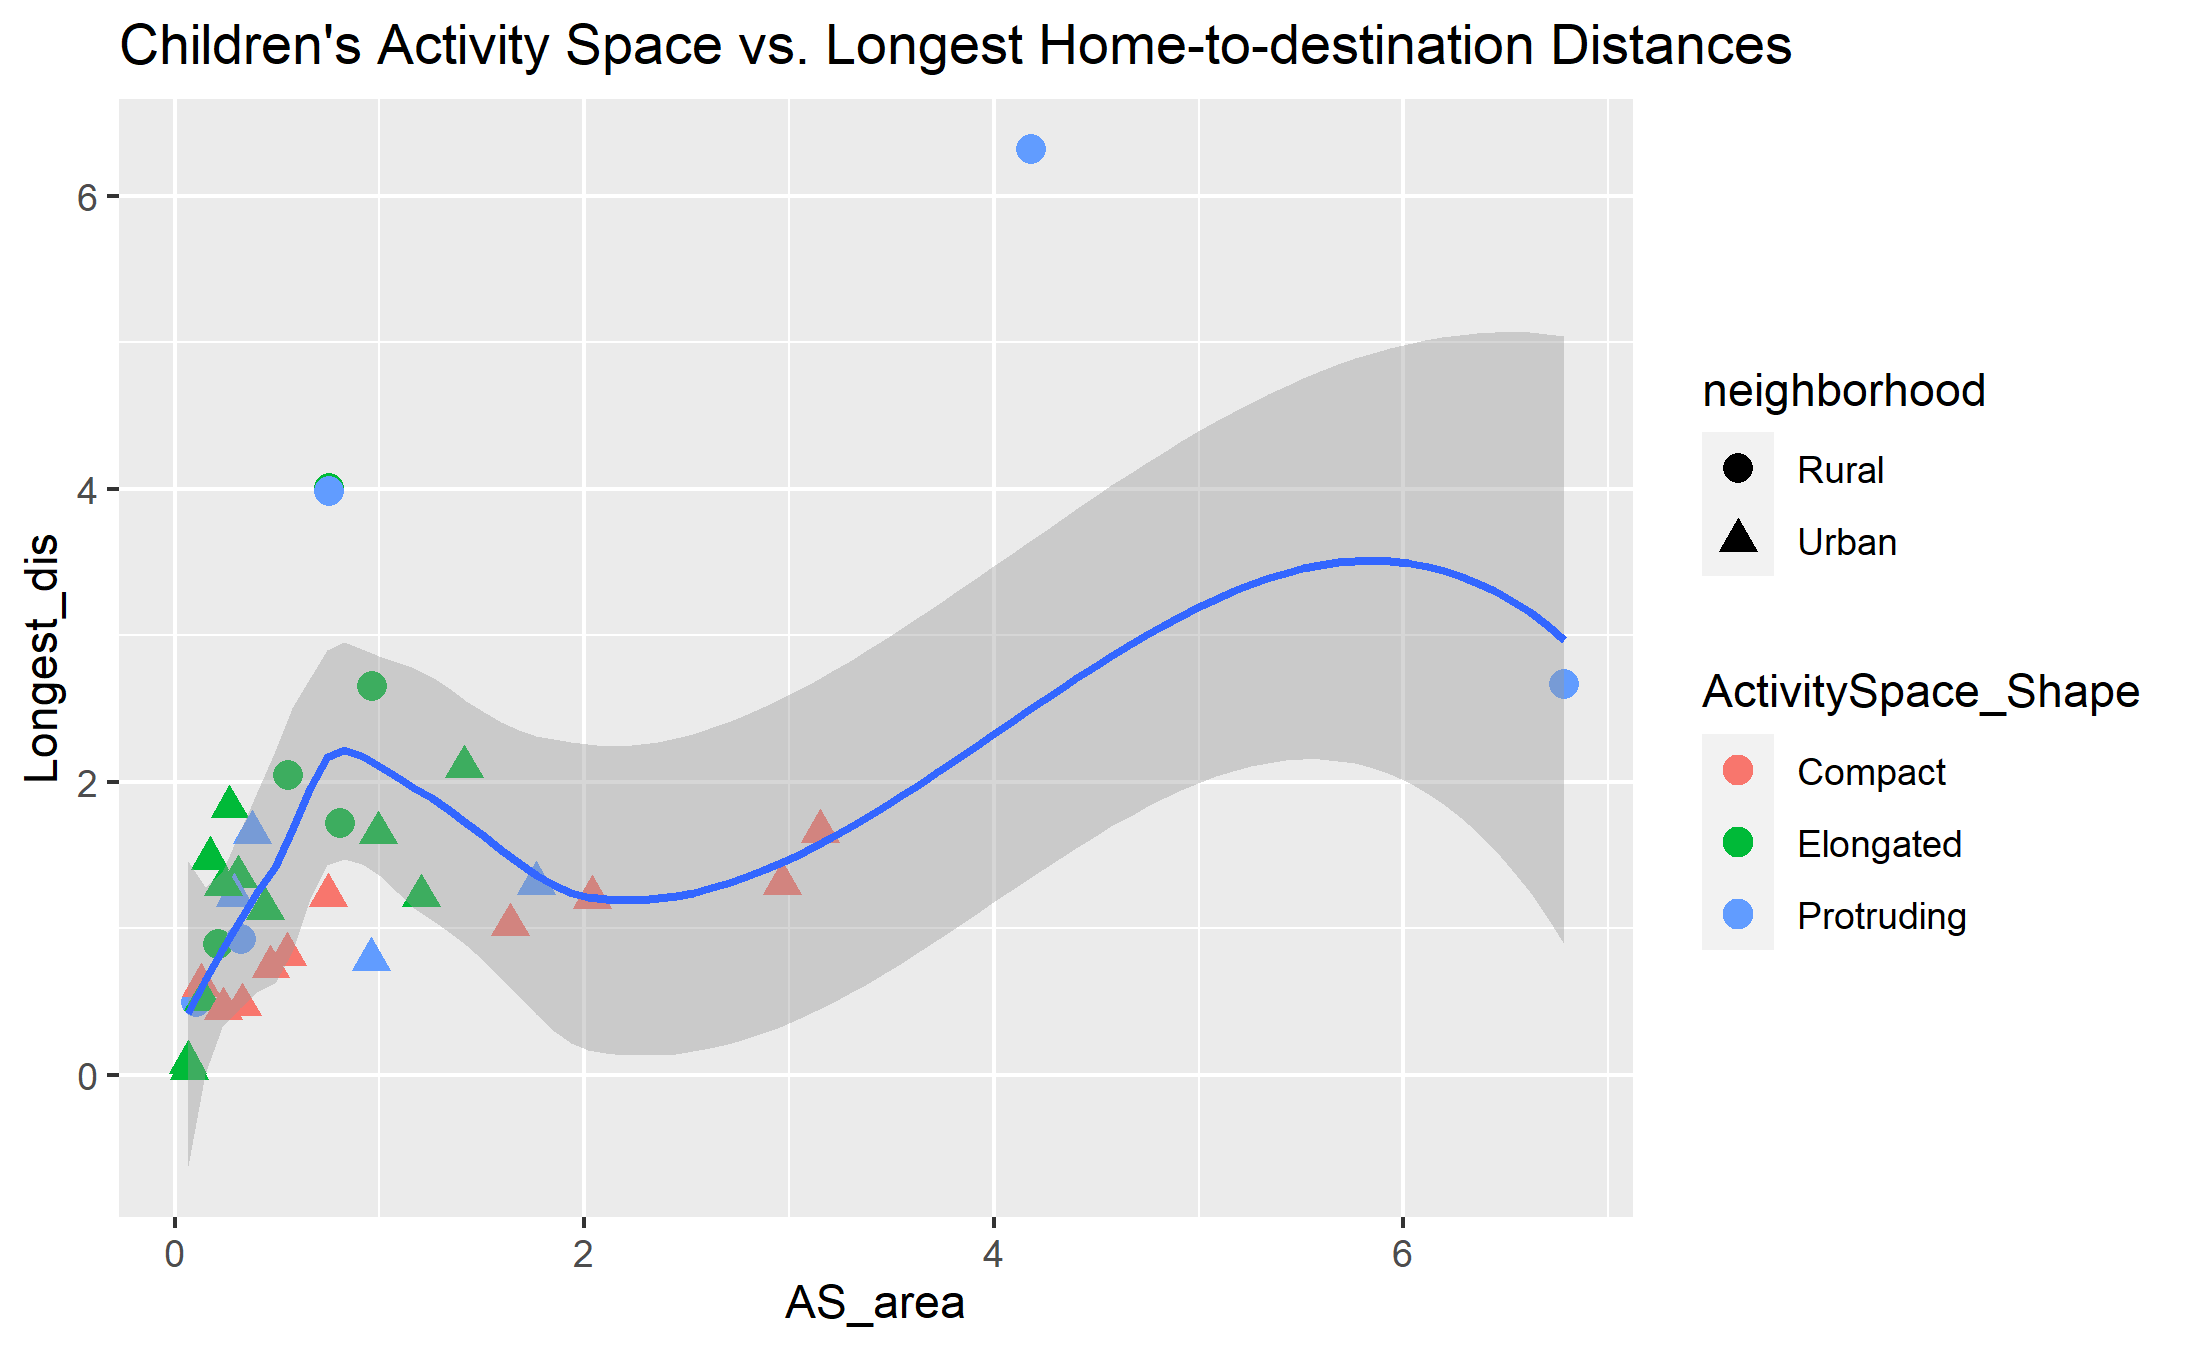
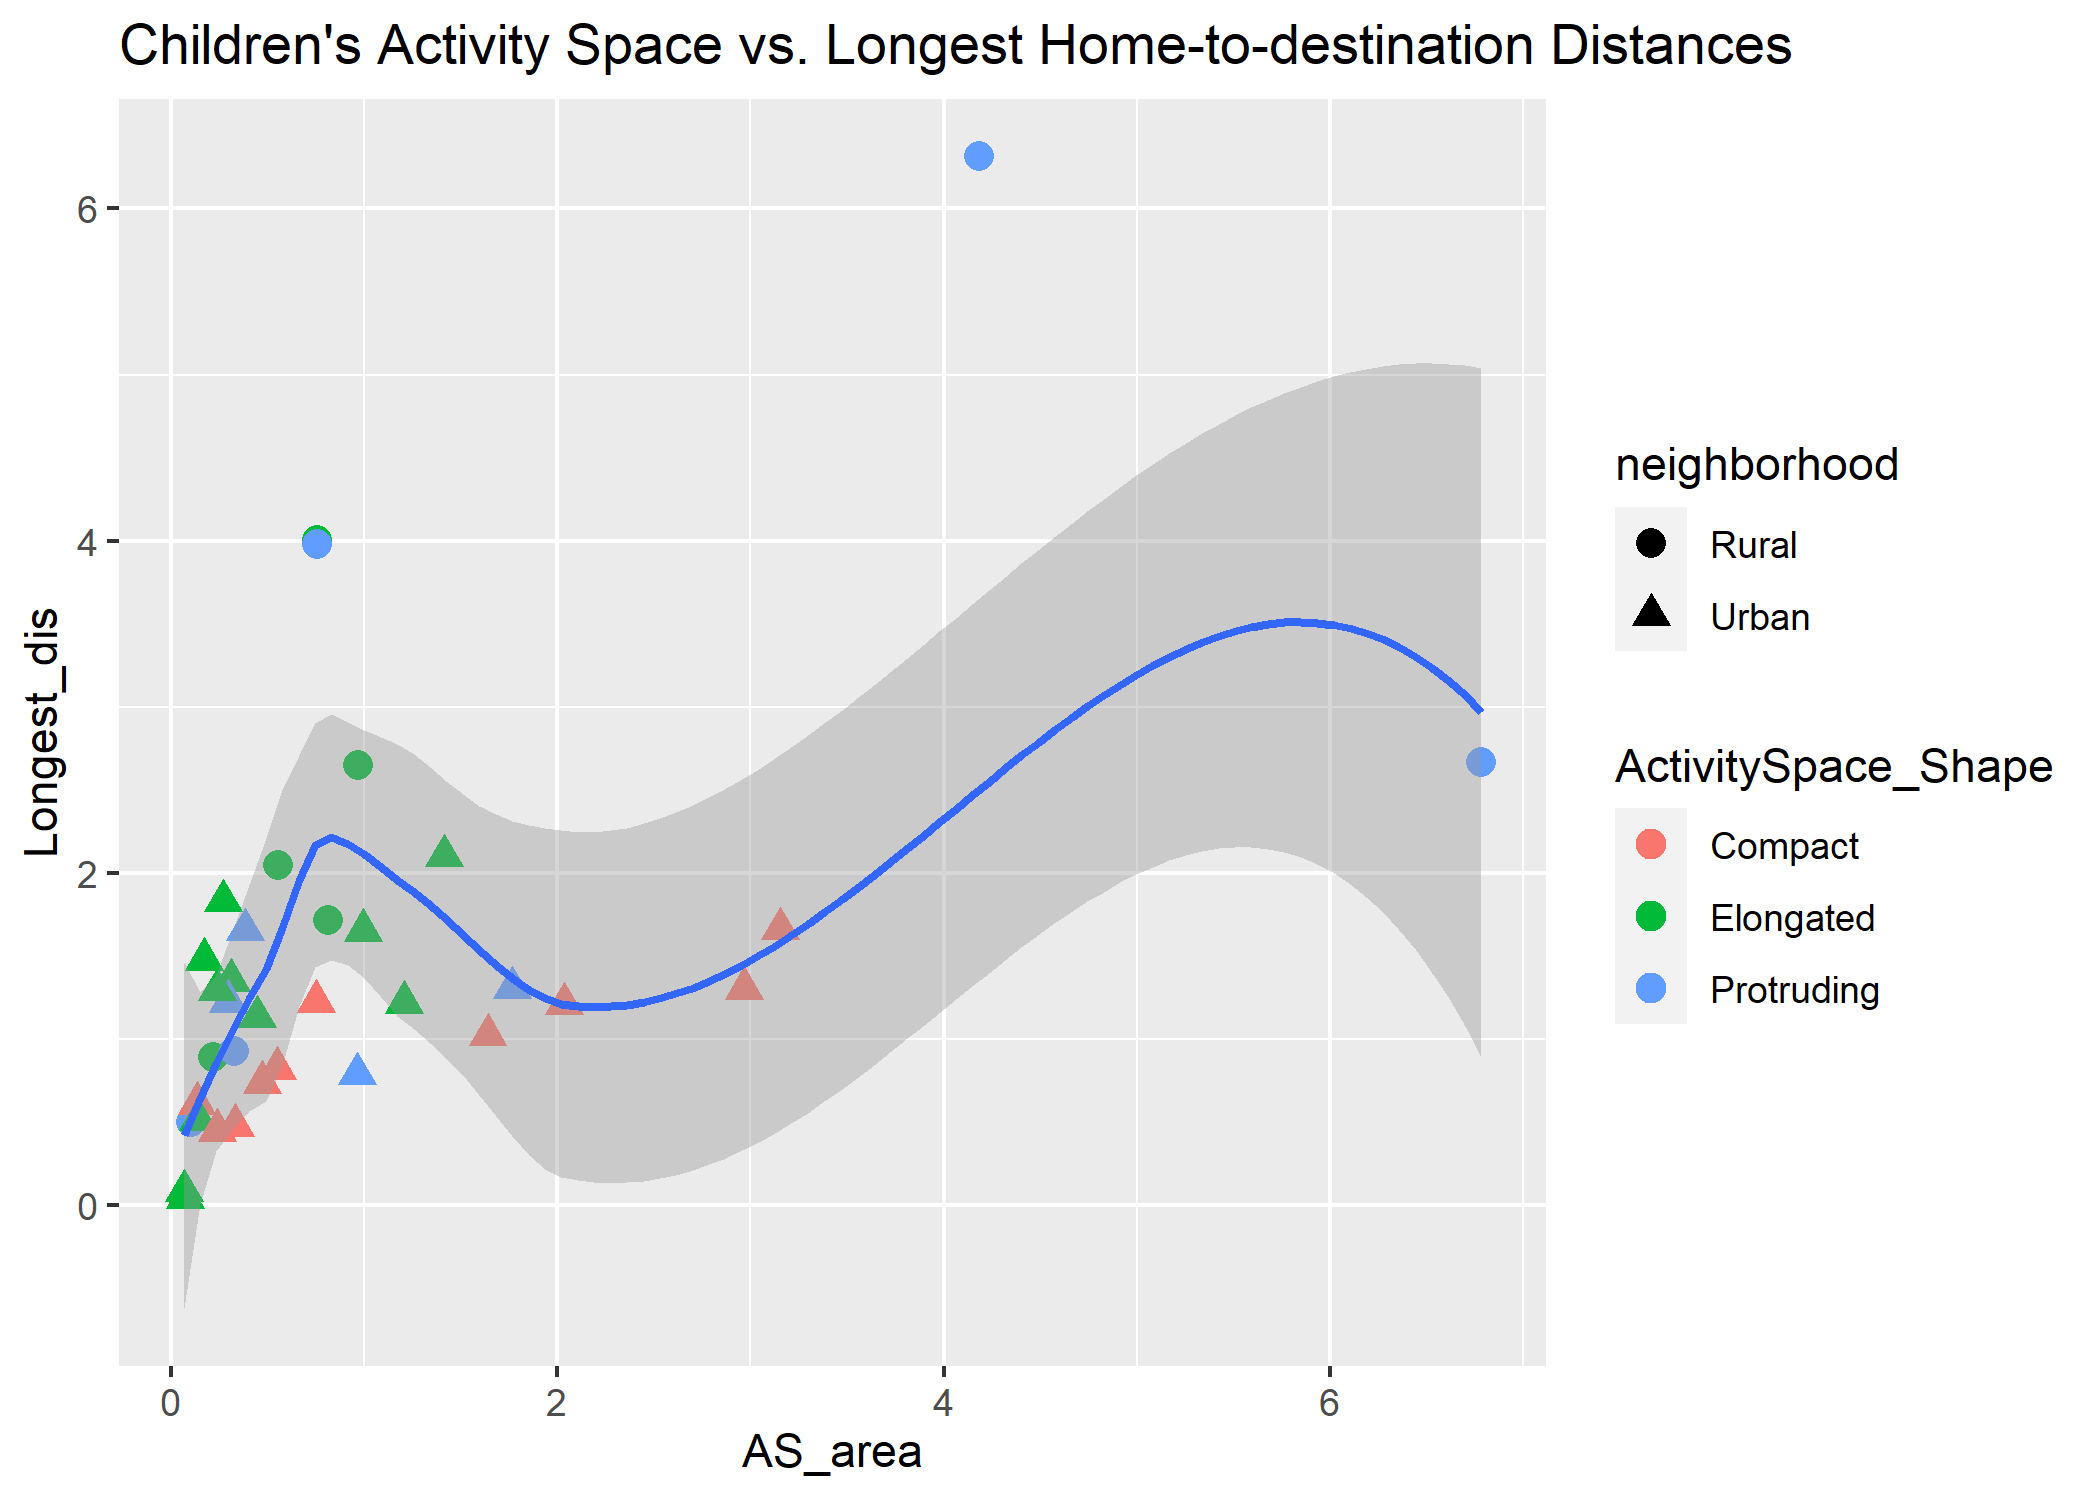
revised

diff --git a/ExitProject.md b/ExitProject.md
@@ -1,0 +1,318 @@
+Exit\_project
+================
+Chunan Gao
+4/13/2021
+
+``` r
+library(tidyverse)
+```
+
+    ## -- Attaching packages --------------------------------------- tidyverse 1.3.0 --
+
+    ## v ggplot2 3.3.3     v purrr   0.3.4
+    ## v tibble  3.0.6     v dplyr   1.0.3
+    ## v tidyr   1.1.2     v stringr 1.4.0
+    ## v readr   1.4.0     v forcats 0.5.1
+
+    ## -- Conflicts ------------------------------------------ tidyverse_conflicts() --
+    ## x dplyr::filter() masks stats::filter()
+    ## x dplyr::lag()    masks stats::lag()
+
+``` r
+Des <- read_csv("~/R/ExitProject/Rowdata/Neighborhood_Destinations.csv")
+```
+
+    ## 
+    ## -- Column specification --------------------------------------------------------
+    ## cols(
+    ##   StudentID = col_character(),
+    ##   Destination_Type = col_character()
+    ## )
+
+``` r
+head(Des)
+```
+
+    ## # A tibble: 6 x 2
+    ##   StudentID Destination_Type           
+    ##   <chr>     <chr>                      
+    ## 1 RL003     Friend's houses            
+    ## 2 RL003     Recreation/community center
+    ## 3 RL003     Wooded/natural area        
+    ## 4 RL003     Sports field               
+    ## 5 RL003     Wooded/natural area        
+    ## 6 RL003     Sports field
+
+``` r
+Number_of_Des <- Des %>% 
+  mutate(timescount = rep(1, length(StudentID))) %>% 
+  group_by(StudentID) %>% 
+  summarise(total_des = sum(timescount))
+head(Number_of_Des)
+```
+
+    ## # A tibble: 6 x 2
+    ##   StudentID total_des
+    ##   <chr>         <dbl>
+    ## 1 RL003             6
+    ## 2 RL004             1
+    ## 3 RL005             1
+    ## 4 RL007             3
+    ## 5 RL008             1
+    ## 6 RL009             1
+
+``` r
+AS <- read_csv("~/R/ExitProject/Rowdata/Activity_Space.csv")
+```
+
+    ## 
+    ## -- Column specification --------------------------------------------------------
+    ## cols(
+    ##   StudentID = col_character(),
+    ##   `Shape_Area(m^2)` = col_double(),
+    ##   `HtoD_Longest_Distance(m)` = col_double(),
+    ##   ActivitySpace_Shape = col_character()
+    ## )
+
+``` r
+head(AS)
+```
+
+    ## # A tibble: 6 x 4
+    ##   StudentID `Shape_Area(m^2)` `HtoD_Longest_Distance(m)` ActivitySpace_Shape
+    ##   <chr>                 <dbl>                      <dbl> <chr>              
+    ## 1 RL003               965270.                      2651. Elongated          
+    ## 2 RL004              6786668.                      2666. Protruding         
+    ## 3 RL005               553313.                      2046. Elongated          
+    ## 4 RL006               110009.                        NA  Elongated          
+    ## 5 RL007               755399.                      4005. Elongated          
+    ## 6 RL008               212969.                       890. Elongated
+
+``` r
+AS_tidy <- AS %>% 
+  rename("AS_area" = "Shape_Area(m^2)", "Longest_dis" = "HtoD_Longest_Distance(m)") %>% 
+  mutate(AS_area = AS_area / 1000000) %>% 
+  mutate(Longest_dis = Longest_dis / 1000) 
+  
+head(AS_tidy)
+```
+
+    ## # A tibble: 6 x 4
+    ##   StudentID AS_area Longest_dis ActivitySpace_Shape
+    ##   <chr>       <dbl>       <dbl> <chr>              
+    ## 1 RL003       0.965       2.65  Elongated          
+    ## 2 RL004       6.79        2.67  Protruding         
+    ## 3 RL005       0.553       2.05  Elongated          
+    ## 4 RL006       0.110      NA     Elongated          
+    ## 5 RL007       0.755       4.01  Elongated          
+    ## 6 RL008       0.213       0.890 Elongated
+
+``` r
+OT <- read_csv("~/R/ExitProject/Rowdata/OutdoorPlay_Time.csv")
+```
+
+    ## 
+    ## -- Column specification --------------------------------------------------------
+    ## cols(
+    ##   StudentID = col_character(),
+    ##   `Total Outdoor Time per Week in SSF` = col_double()
+    ## )
+
+``` r
+head(OT)
+```
+
+    ## # A tibble: 6 x 2
+    ##   StudentID `Total Outdoor Time per Week in SSF`
+    ##   <chr>                                    <dbl>
+    ## 1 RL004                                     3.75
+    ## 2 RL007                                     8   
+    ## 3 RL009                                    18   
+    ## 4 RL010                                    14   
+    ## 5 RL011                                    14   
+    ## 6 RL019                                     1.25
+
+``` r
+OT_tidy <- OT %>% 
+  rename("Outdoor_time" = "Total Outdoor Time per Week in SSF")
+
+head(OT_tidy)
+```
+
+    ## # A tibble: 6 x 2
+    ##   StudentID Outdoor_time
+    ##   <chr>            <dbl>
+    ## 1 RL004             3.75
+    ## 2 RL007             8   
+    ## 3 RL009            18   
+    ## 4 RL010            14   
+    ## 5 RL011            14   
+    ## 6 RL019             1.25
+
+``` r
+#install.packages("maps")
+library(maps) 
+```
+
+    ## Warning: package 'maps' was built under R version 4.0.5
+
+    ## 
+    ## Attaching package: 'maps'
+
+    ## The following object is masked from 'package:purrr':
+    ## 
+    ##     map
+
+``` r
+Children <- Number_of_Des %>%
+  left_join(AS_tidy) %>% 
+  left_join(OT_tidy) %>% 
+  transform( neighborhood = substr(StudentID, 1, 2), ID = substr(StudentID, 3, 5)) %>% 
+  mutate(neighborhood = ifelse(neighborhood == "RL", "Rural", "Urban")) %>% 
+  write_csv(file = "~/R/ExitProject/Children_tidy.csv" )
+```
+
+    ## Joining, by = "StudentID"
+
+    ## Joining, by = "StudentID"
+
+``` r
+head(Children)
+```
+
+    ##   StudentID total_des   AS_area Longest_dis ActivitySpace_Shape Outdoor_time
+    ## 1     RL003         6 0.9652700   2.6510735           Elongated           NA
+    ## 2     RL004         1 6.7866678   2.6655003          Protruding         3.75
+    ## 3     RL005         1 0.5533134   2.0457588           Elongated           NA
+    ## 4     RL007         3 0.7553987   4.0051803           Elongated         8.00
+    ## 5     RL008         1 0.2129688   0.8903541           Elongated           NA
+    ## 6     RL009         1 0.7558393   3.9818605          Protruding        18.00
+    ##   neighborhood  ID
+    ## 1        Rural 003
+    ## 2        Rural 004
+    ## 3        Rural 005
+    ## 4        Rural 007
+    ## 5        Rural 008
+    ## 6        Rural 009
+
+``` r
+Children %>% 
+  ggplot(mapping = aes(x = AS_area, y = total_des, na.rm = TRUE)) + 
+  geom_point(mapping = aes(color = neighborhood), size = 3) +
+  geom_smooth()+
+  labs(title = "Children's Activity Space vs. Neighborhood Destinations")
+```
+
+    ## `geom_smooth()` using method = 'loess' and formula 'y ~ x'
+
+![](ExitProject_files/figure-gfm/unnamed-chunk-8-1.png)<!-- -->
+
+``` r
+ggsave(file = "~/R/ExitProject/Figures/ASvsND.png" )
+```
+
+    ## Saving 7 x 5 in image
+    ## `geom_smooth()` using method = 'loess' and formula 'y ~ x'
+
+``` r
+Children %>% 
+  filter(!is.na(Longest_dis)) %>% 
+  ggplot(mapping = aes(x = AS_area, y = Longest_dis)) + 
+  geom_point(mapping = aes(color = ActivitySpace_Shape, shape = neighborhood), size = 3) +
+  geom_smooth()+
+  labs(title = "Children's Activity Space vs. Longest Home-to-destination Distances")
+```
+
+    ## `geom_smooth()` using method = 'loess' and formula 'y ~ x'
+
+![](ExitProject_files/figure-gfm/unnamed-chunk-9-1.png)<!-- -->
+
+``` r
+ggsave(file = "~/R/ExitProject/Figures/ASvsHDD.png" )
+```
+
+    ## Saving 7 x 5 in image
+    ## `geom_smooth()` using method = 'loess' and formula 'y ~ x'
+
+``` r
+Children %>% 
+  filter(!is.na(Outdoor_time)) %>% 
+  ggplot(mapping = aes(x = Outdoor_time, y = AS_area, na.rm = TRUE)) + 
+  geom_point(mapping = aes(color = neighborhood), size = 3) +
+  geom_smooth()+
+  labs(title = "Children's Outdoor Play time vs. Neighborhood Destinations")
+```
+
+    ## `geom_smooth()` using method = 'loess' and formula 'y ~ x'
+
+![](ExitProject_files/figure-gfm/unnamed-chunk-10-1.png)<!-- -->
+
+``` r
+ggsave(file = "~/R/ExitProject/Figures/OTvsND.png" )
+```
+
+    ## Saving 7 x 5 in image
+    ## `geom_smooth()` using method = 'loess' and formula 'y ~ x'
+
+``` r
+Des <- read_csv("~/R/ExitProject/Rowdata/Neighborhood_Destinations.csv")
+```
+
+    ## 
+    ## -- Column specification --------------------------------------------------------
+    ## cols(
+    ##   StudentID = col_character(),
+    ##   Destination_Type = col_character()
+    ## )
+
+``` r
+head(Des)
+```
+
+    ## # A tibble: 6 x 2
+    ##   StudentID Destination_Type           
+    ##   <chr>     <chr>                      
+    ## 1 RL003     Friend's houses            
+    ## 2 RL003     Recreation/community center
+    ## 3 RL003     Wooded/natural area        
+    ## 4 RL003     Sports field               
+    ## 5 RL003     Wooded/natural area        
+    ## 6 RL003     Sports field
+
+``` r
+Pop_Des <- Des %>% 
+  mutate(timescount = rep(1, length(StudentID))) %>% 
+  transform( neighborhood = substr(StudentID, 1, 2), ID = substr(StudentID, 3, 5)) %>% 
+  mutate(neighborhood = ifelse(neighborhood == "RL", "Rural", "Urban")) %>% 
+  group_by(Destination_Type, neighborhood) %>% 
+  summarise(typecount = sum(timescount)) %>% 
+  pivot_wider(names_from = neighborhood, values_from = typecount)
+```
+
+    ## `summarise()` has grouped output by 'Destination_Type'. You can override using the `.groups` argument.
+
+``` r
+Pop_Des
+```
+
+    ## # A tibble: 17 x 3
+    ## # Groups:   Destination_Type [17]
+    ##    Destination_Type            Rural Urban
+    ##    <chr>                       <dbl> <dbl>
+    ##  1 Allowed to go anywhere          2    NA
+    ##  2 Coffee shop/cafe                1    12
+    ##  3 Dollar/thrift stores           NA     5
+    ##  4 Fast food resaurant             1     6
+    ##  5 Friend's houses                 5    29
+    ##  6 Grocery stores                  1     8
+    ##  7 Lesson/class locations          5     1
+    ##  8 Malls or other retail          NA    11
+    ##  9 Multi-use trail/path           NA     2
+    ## 10 Other                          NA     3
+    ## 11 Parks/playgrounds              NA    27
+    ## 12 Recreation/community center     4     4
+    ## 13 Recreation/Community center    NA     1
+    ## 14 Sports field                    2     1
+    ## 15 Variety stores                  1     1
+    ## 16 Water Feature                  NA     2
+    ## 17 Wooded/natural area             5    15
